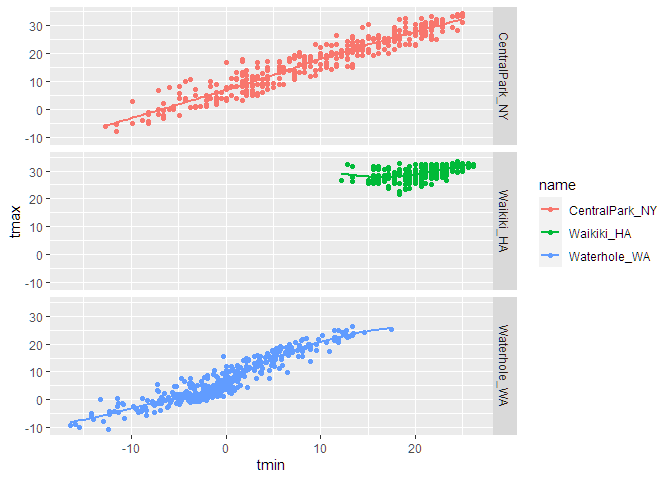
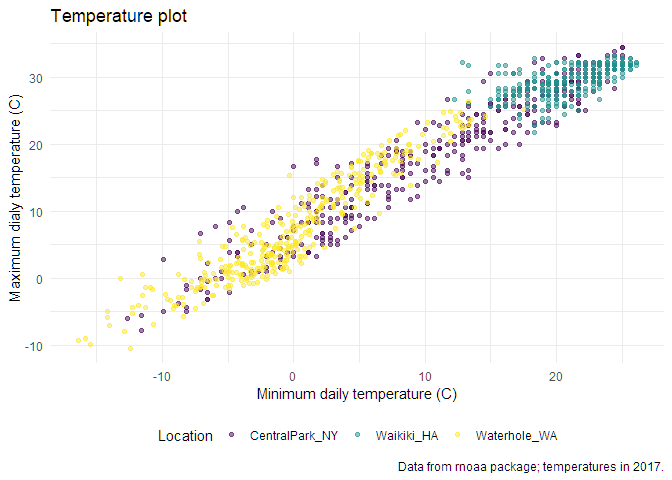
themes

diff --git a/viz_ii.md b/viz_ii.md
@@ -205,3 +205,48 @@ weather_df %>%
     ## Warning: Removed 15 rows containing missing values (geom_point).
 
 ![](viz_ii_files/figure-gfm/unnamed-chunk-7-1.png)<!-- -->
+
+## Themes, such as background color and font size
+
+``` r
+weather_df %>% 
+  ggplot(aes(x = tmin, y = tmax, color = name)) +
+  geom_point(alpha = 0.5) +
+  labs(
+    title = "Temperature plot",
+    x = "Minimum daily temperature (C)",
+    y = "Maximum dialy temperature (C)",
+    caption = "Data from rnoaa package; temperatures in 2017."
+  ) +
+  viridis::scale_color_viridis(
+    name = "Location",
+    discrete = TRUE) +
+  theme(legend.position = "bottom")
+```
+
+    ## Warning: Removed 15 rows containing missing values (geom_point).
+
+![](viz_ii_files/figure-gfm/unnamed-chunk-8-1.png)<!-- -->
+
+change the overall theme.
+
+``` r
+weather_df %>% 
+  ggplot(aes(x = tmin, y = tmax, color = name)) +
+  geom_point(alpha = 0.5) +
+  labs(
+    title = "Temperature plot",
+    x = "Minimum daily temperature (C)",
+    y = "Maximum dialy temperature (C)",
+    caption = "Data from rnoaa package; temperatures in 2017."
+  ) +
+  viridis::scale_color_viridis(
+    name = "Location",
+    discrete = TRUE) +
+  theme_minimal() +
+  theme(legend.position = "bottom")
+```
+
+    ## Warning: Removed 15 rows containing missing values (geom_point).
+
+![](viz_ii_files/figure-gfm/unnamed-chunk-9-1.png)<!-- -->
